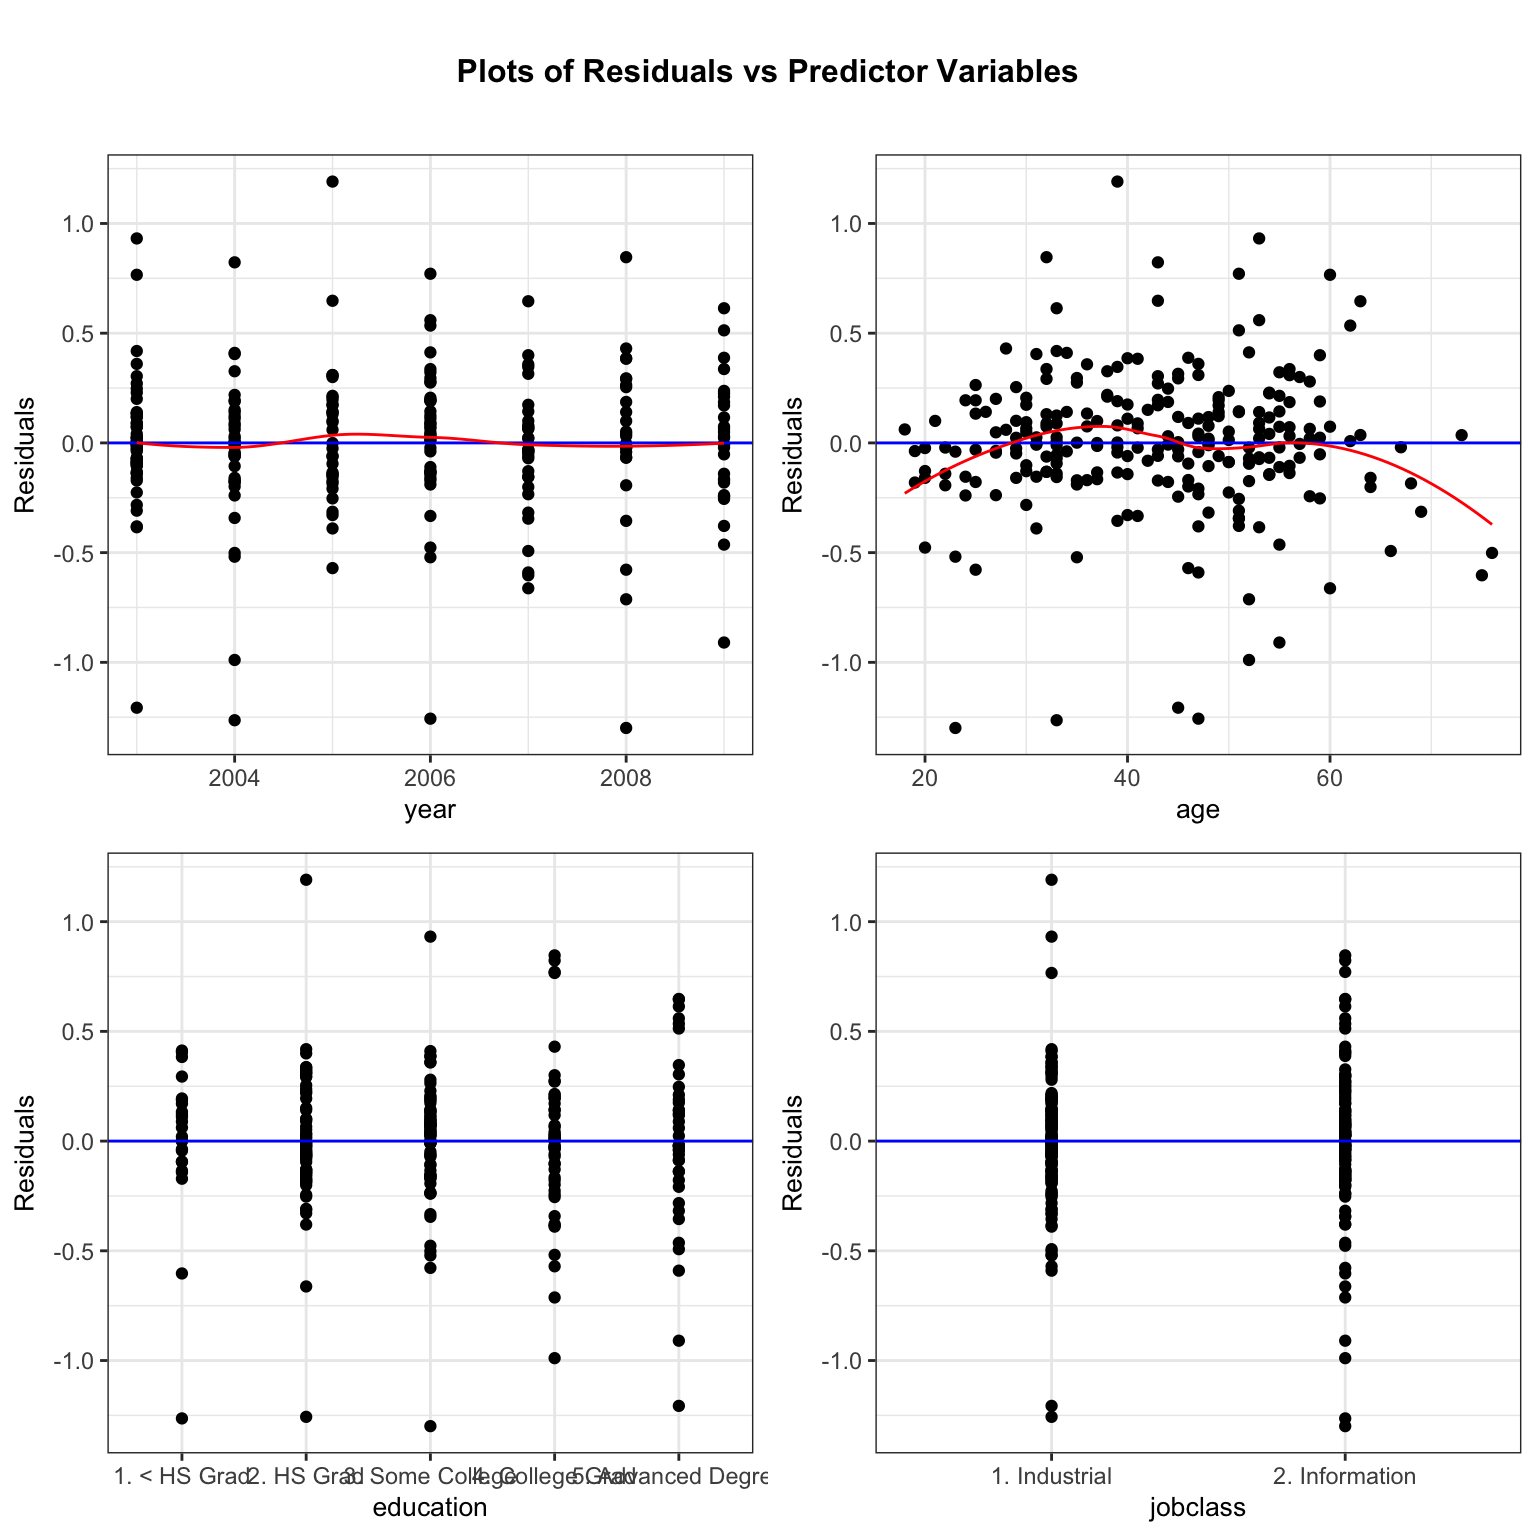
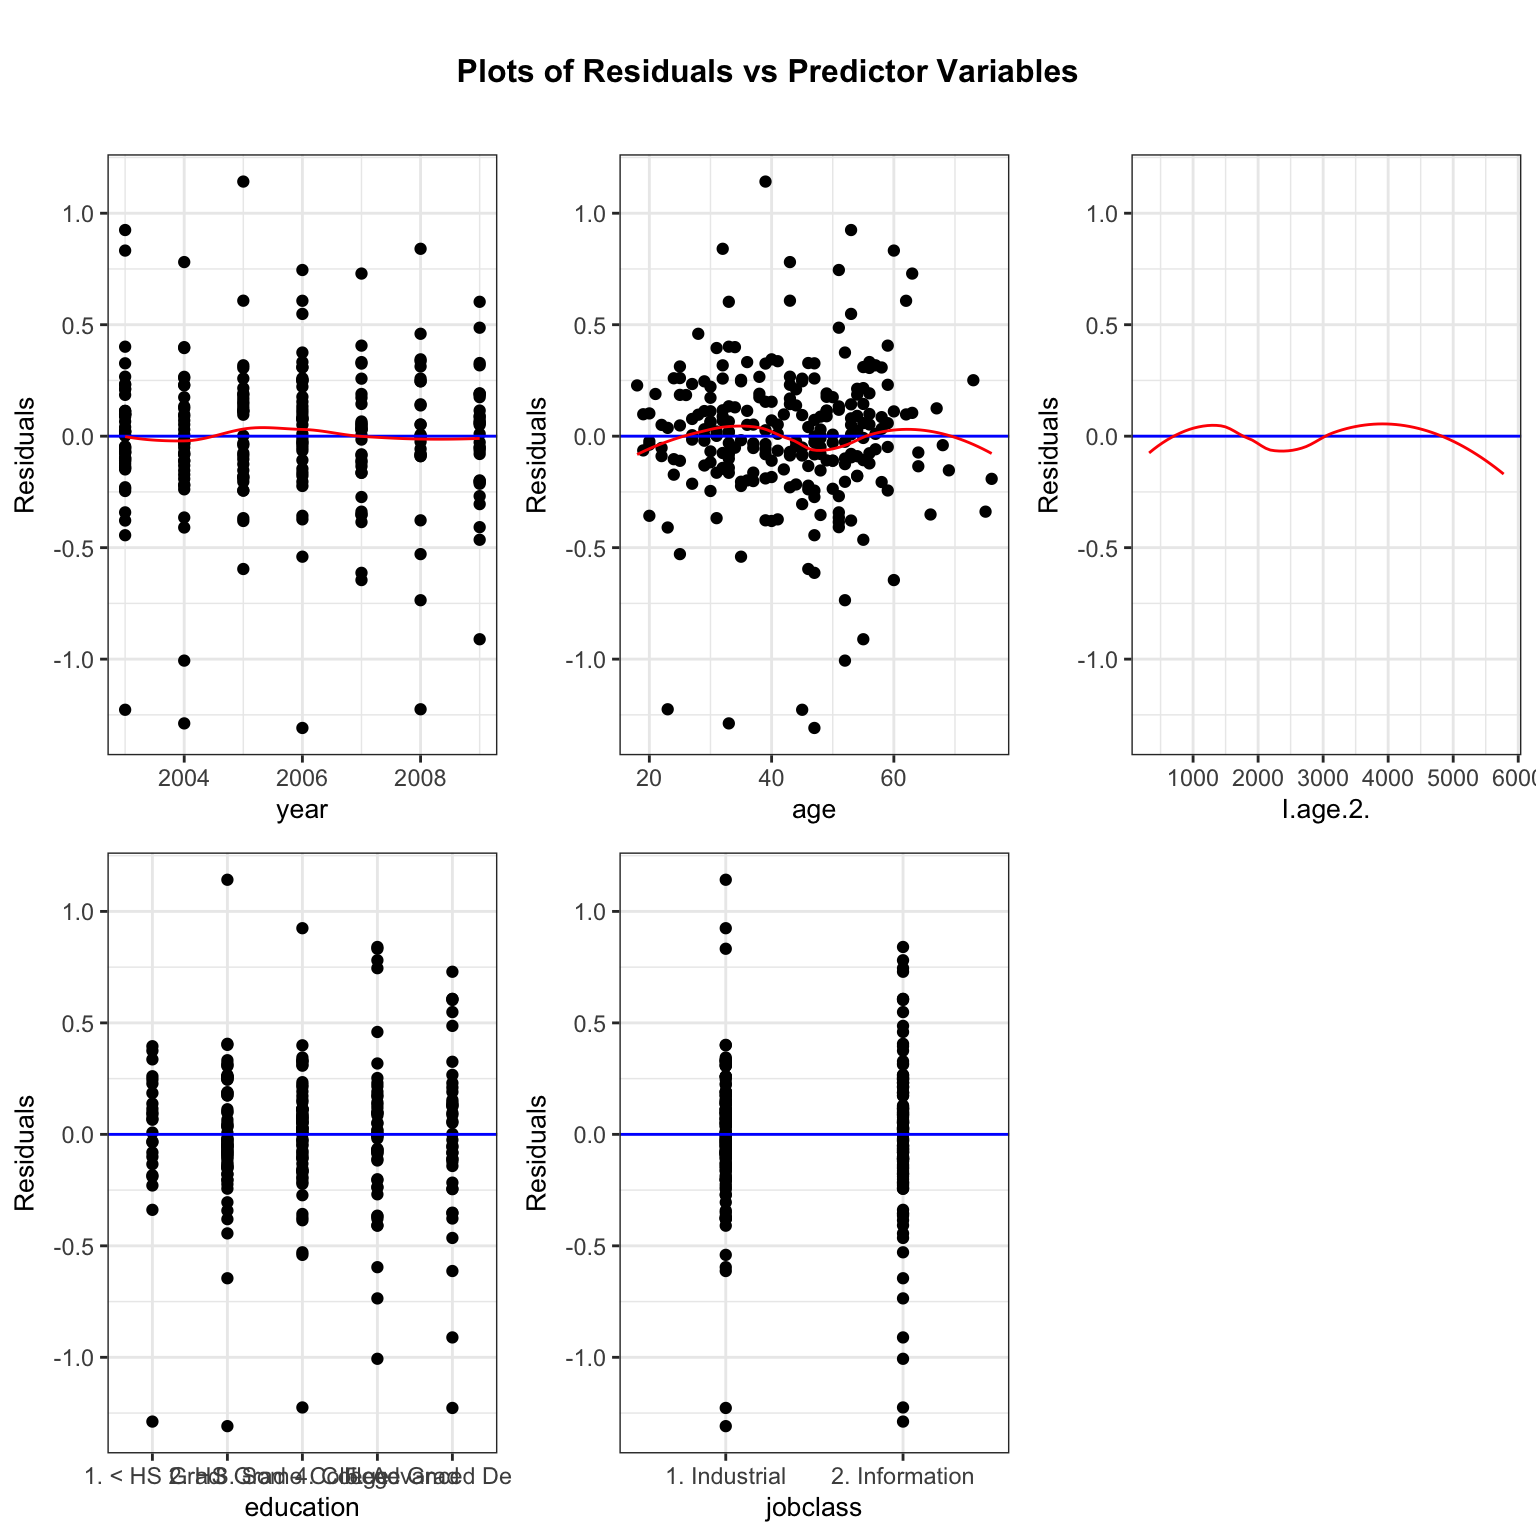
added poly reg fix

diff --git a/docs/Ch5.html b/docs/Ch5.html
@@ -1084,7 +1084,7 @@ Acc060 0.7905858 0.8497679</code></pre>
 </div>
 <p>We also check residual by predictor plots.</p>
 <div class="cell">
-<div class="sourceCode cell-code" id="cb50"><pre class="sourceCode r code-with-copy"><code class="sourceCode r"><span id="cb50-1"><a href="#cb50-1" aria-hidden="true" tabindex="-1"></a><span class="fu">resid_xpanel</span>(M_logWage_price_yr_age_ed_job, <span class="at">smoother=</span><span class="cn">TRUE</span>)</span></code><button title="Copy to Clipboard" class="code-copy-button"><i class="bi"></i></button></pre></div>
+<div class="sourceCode cell-code" id="cb50"><pre class="sourceCode r code-with-copy"><code class="sourceCode r"><span id="cb50-1"><a href="#cb50-1" aria-hidden="true" tabindex="-1"></a><span class="fu">resid_xpanel</span>(M_logWage_price_yr_age2_ed_job, <span class="at">smoother=</span><span class="cn">TRUE</span>)</span></code><button title="Copy to Clipboard" class="code-copy-button"><i class="bi"></i></button></pre></div>
 <div class="cell-output-display">
 <div>
 <figure class="figure">
@@ -1099,46 +1099,50 @@ Acc060 0.7905858 0.8497679</code></pre>
 <h3 data-number="5.3.4" class="anchored" data-anchor-id="model-output"><span class="header-section-number">5.3.4</span> Model Output</h3>
 <p>Now that we’ve found a model that appears to reasonably satisfy model assumptions, let’s look at the model summary output.</p>
 <div class="cell">
-<div class="sourceCode cell-code" id="cb51"><pre class="sourceCode r code-with-copy"><code class="sourceCode r"><span id="cb51-1"><a href="#cb51-1" aria-hidden="true" tabindex="-1"></a><span class="fu">summary</span>(M_logWage_price_yr_age_ed_job)</span></code><button title="Copy to Clipboard" class="code-copy-button"><i class="bi"></i></button></pre></div>
+<div class="sourceCode cell-code" id="cb51"><pre class="sourceCode r code-with-copy"><code class="sourceCode r"><span id="cb51-1"><a href="#cb51-1" aria-hidden="true" tabindex="-1"></a><span class="fu">summary</span>(M_logWage_price_yr_age2_ed_job)</span></code><button title="Copy to Clipboard" class="code-copy-button"><i class="bi"></i></button></pre></div>
 <div class="cell-output cell-output-stdout">
 <pre><code>
 Call:
-lm(formula = log(wage) ~ year + age + education + jobclass, data = WageSample)
+lm(formula = log(wage) ~ year + age + I(age^2) + education + 
+    jobclass, data = WageSample)
 
 Residuals:
-     Min       1Q   Median       3Q      Max 
--1.29905 -0.14183  0.00267  0.16571  1.19099 
+    Min      1Q  Median      3Q     Max 
+-1.3087 -0.1331  0.0056  0.1652  1.1420 
 
 Coefficients:
-                              Estimate Std. Error t value        Pr(&gt;|t|)    
-(Intercept)                 -23.203853  21.150224  -1.097        0.273689    
-year                          0.013615   0.010551   1.290        0.198117    
-age                           0.005593   0.001758   3.182        0.001655 ** 
-education2. HS Grad           0.186614   0.079941   2.334        0.020395 *  
-education3. Some College      0.296369   0.079602   3.723        0.000245 ***
-education4. College Grad      0.422839   0.083145   5.086 0.0000007346731 ***
-education5. Advanced Degree   0.603682   0.087811   6.875 0.0000000000524 ***
-jobclass2. Information        0.039636   0.043484   0.912        0.362937    
+                               Estimate  Std. Error t value       Pr(&gt;|t|)    
+(Intercept)                 -26.5956726  20.9257600  -1.271        0.20497    
+year                          0.0150231   0.0104326   1.440        0.15116    
+age                           0.0339204   0.0107471   3.156        0.00180 ** 
+I(age^2)                     -0.0003270   0.0001224  -2.671        0.00808 ** 
+education2. HS Grad           0.1970428   0.0790437   2.493        0.01335 *  
+education3. Some College      0.2923319   0.0786263   3.718        0.00025 ***
+education4. College Grad      0.4056835   0.0823616   4.926 0.000001562608 ***
+education5. Advanced Degree   0.5831476   0.0870589   6.698 0.000000000147 ***
+jobclass2. Information        0.0556347   0.0433594   1.283        0.20069    
 ---
 Signif. codes:  0 '***' 0.001 '**' 0.01 '*' 0.05 '.' 0.1 ' ' 1
 
-Residual standard error: 0.3319 on 242 degrees of freedom
-Multiple R-squared:  0.2776,    Adjusted R-squared:  0.2567 
-F-statistic: 13.28 on 7 and 242 DF,  p-value: 0.00000000000001769</code></pre>
+Residual standard error: 0.3278 on 241 degrees of freedom
+Multiple R-squared:  0.2983,    Adjusted R-squared:  0.275 
+F-statistic: 12.81 on 8 and 241 DF,  p-value: 0.000000000000002483</code></pre>
 </div>
 </div>
 <p>Since we modeled <code>log(wage)</code>, we’ll exponentiate the model coefficients to make our interpretations.</p>
 <div class="cell">
-<div class="sourceCode cell-code" id="cb53"><pre class="sourceCode r code-with-copy"><code class="sourceCode r"><span id="cb53-1"><a href="#cb53-1" aria-hidden="true" tabindex="-1"></a><span class="fu">exp</span>(M_logWage_price_yr_age_ed_job<span class="sc">$</span>coefficients) <span class="sc">|&gt;</span><span class="fu">round</span>(<span class="dv">3</span>)</span></code><button title="Copy to Clipboard" class="code-copy-button"><i class="bi"></i></button></pre></div>
+<div class="sourceCode cell-code" id="cb53"><pre class="sourceCode r code-with-copy"><code class="sourceCode r"><span id="cb53-1"><a href="#cb53-1" aria-hidden="true" tabindex="-1"></a><span class="fu">exp</span>(M_logWage_price_yr_age2_ed_job<span class="sc">$</span>coefficients) <span class="sc">|&gt;</span><span class="fu">round</span>(<span class="dv">3</span>)</span></code><button title="Copy to Clipboard" class="code-copy-button"><i class="bi"></i></button></pre></div>
 <div class="cell-output cell-output-stdout">
 <pre><code>                (Intercept)                        year 
-                      0.000                       1.014 
-                        age         education2. HS Grad 
-                      1.006                       1.205 
-   education3. Some College    education4. College Grad 
-                      1.345                       1.526 
-education5. Advanced Degree      jobclass2. Information 
-                      1.829                       1.040 </code></pre>
+                      0.000                       1.015 
+                        age                    I(age^2) 
+                      1.035                       1.000 
+        education2. HS Grad    education3. Some College 
+                      1.218                       1.340 
+   education4. College Grad education5. Advanced Degree 
+                      1.500                       1.792 
+     jobclass2. Information 
+                      1.057 </code></pre>
 </div>
 </div>
 <p><strong>Interpretations</strong></p>
